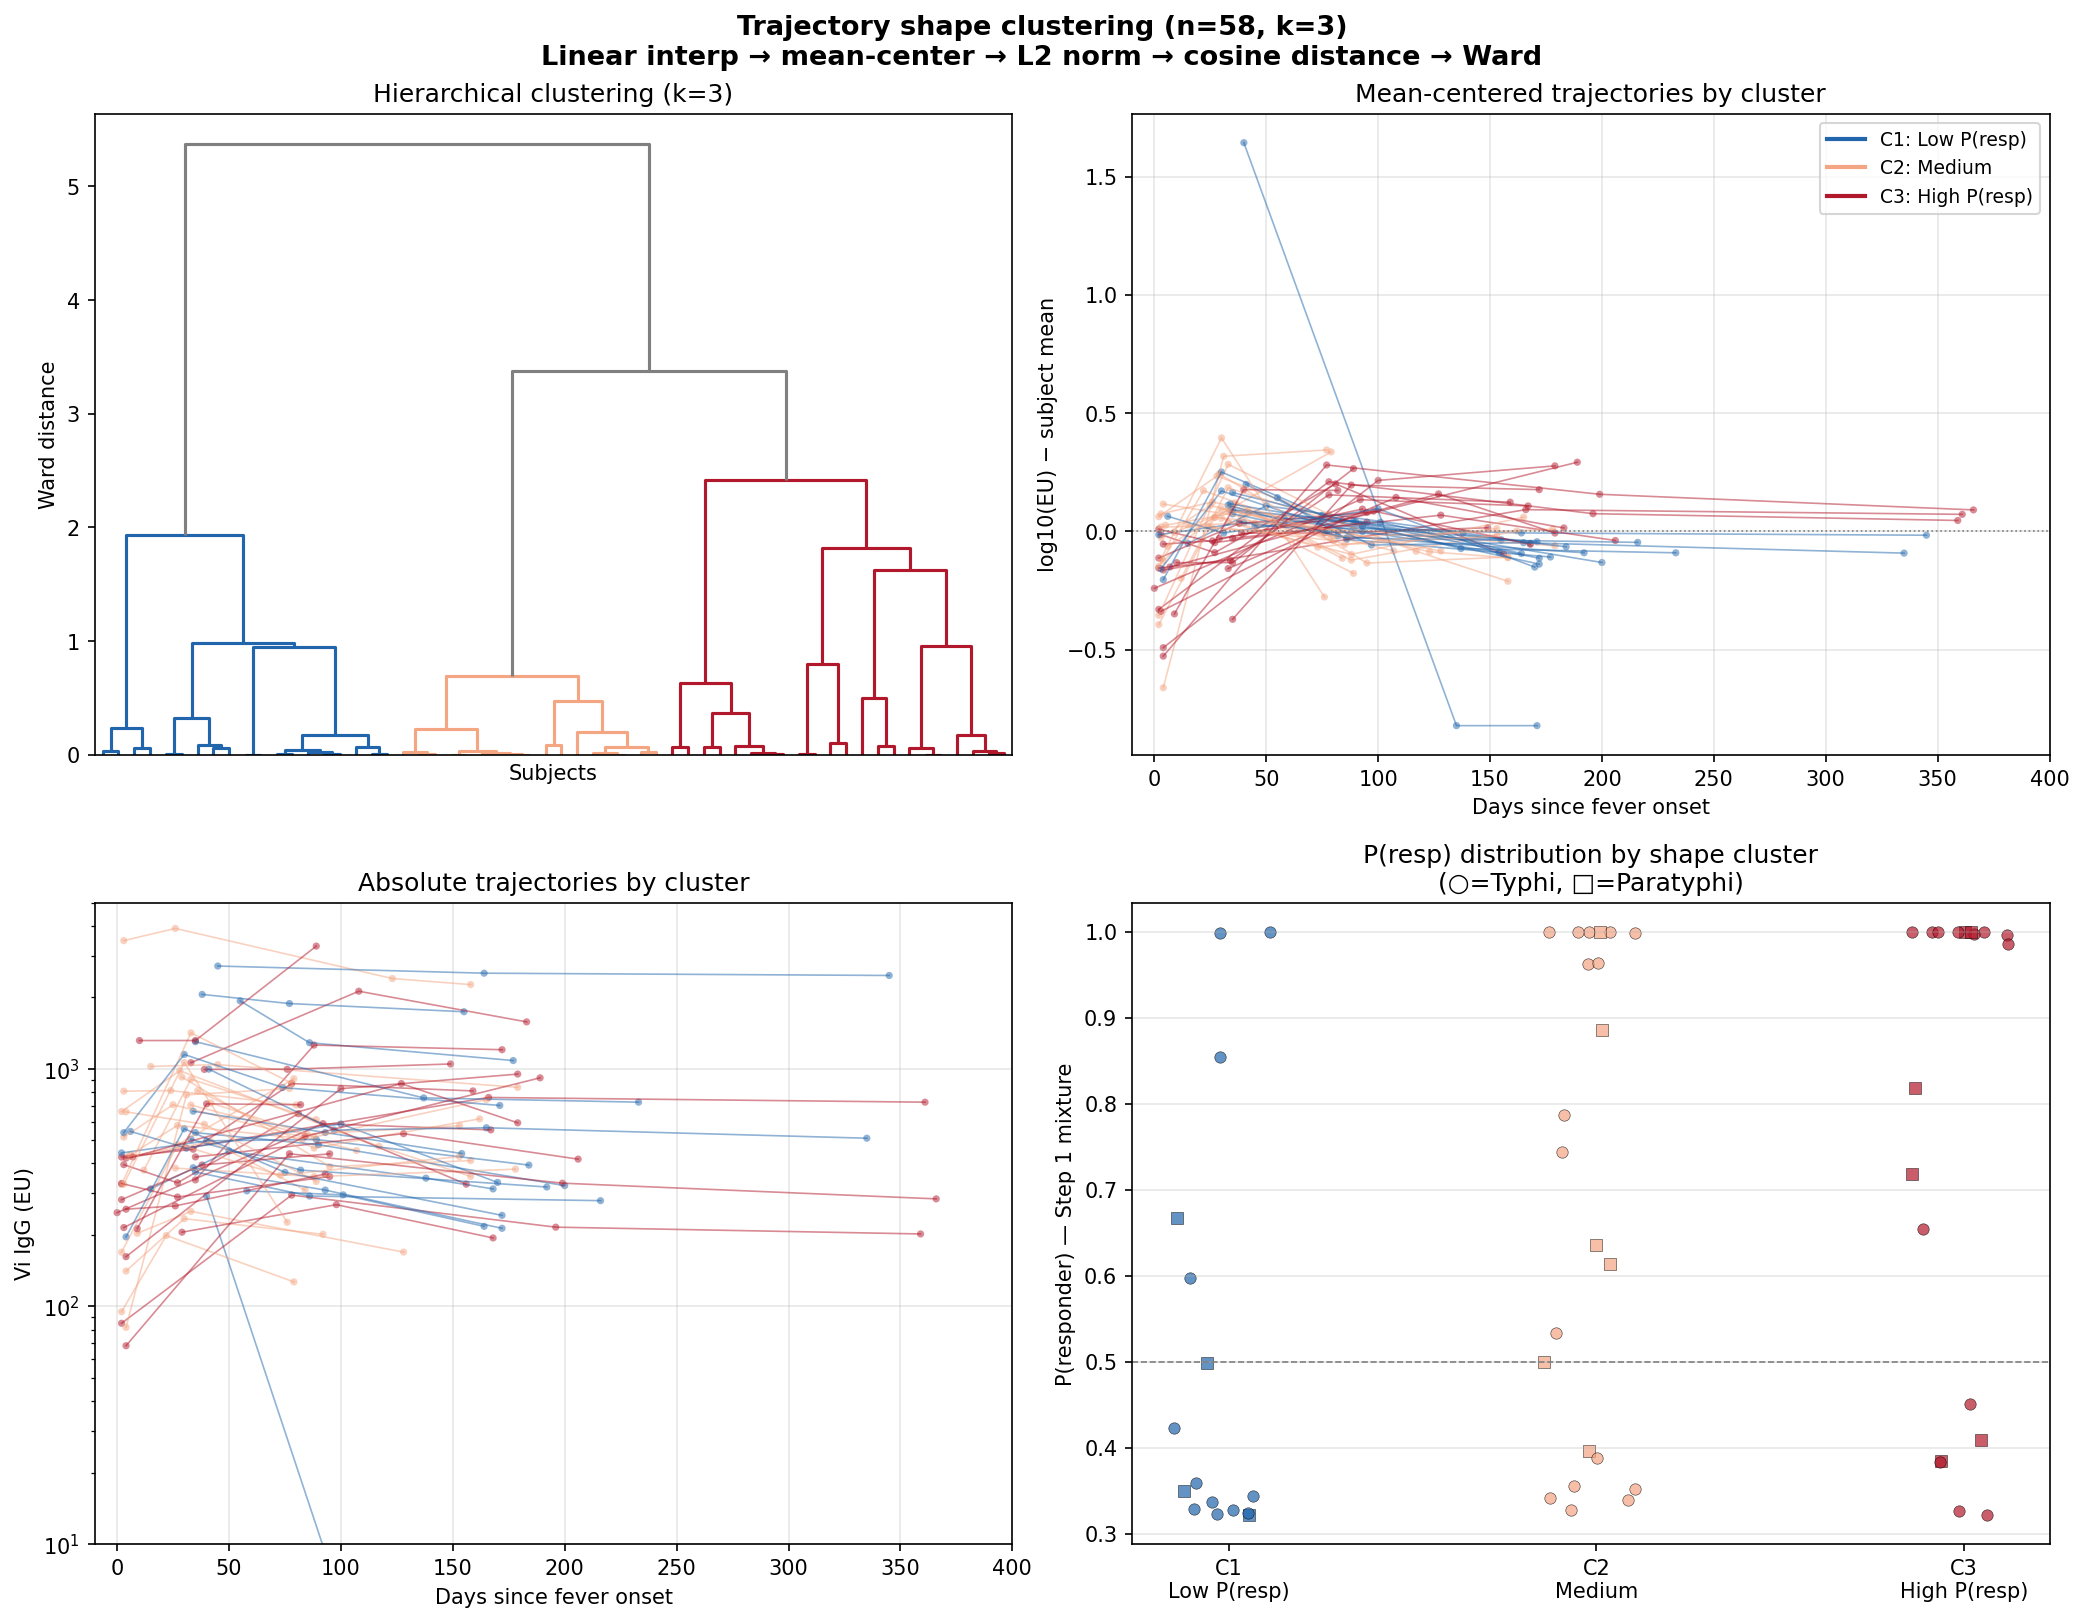
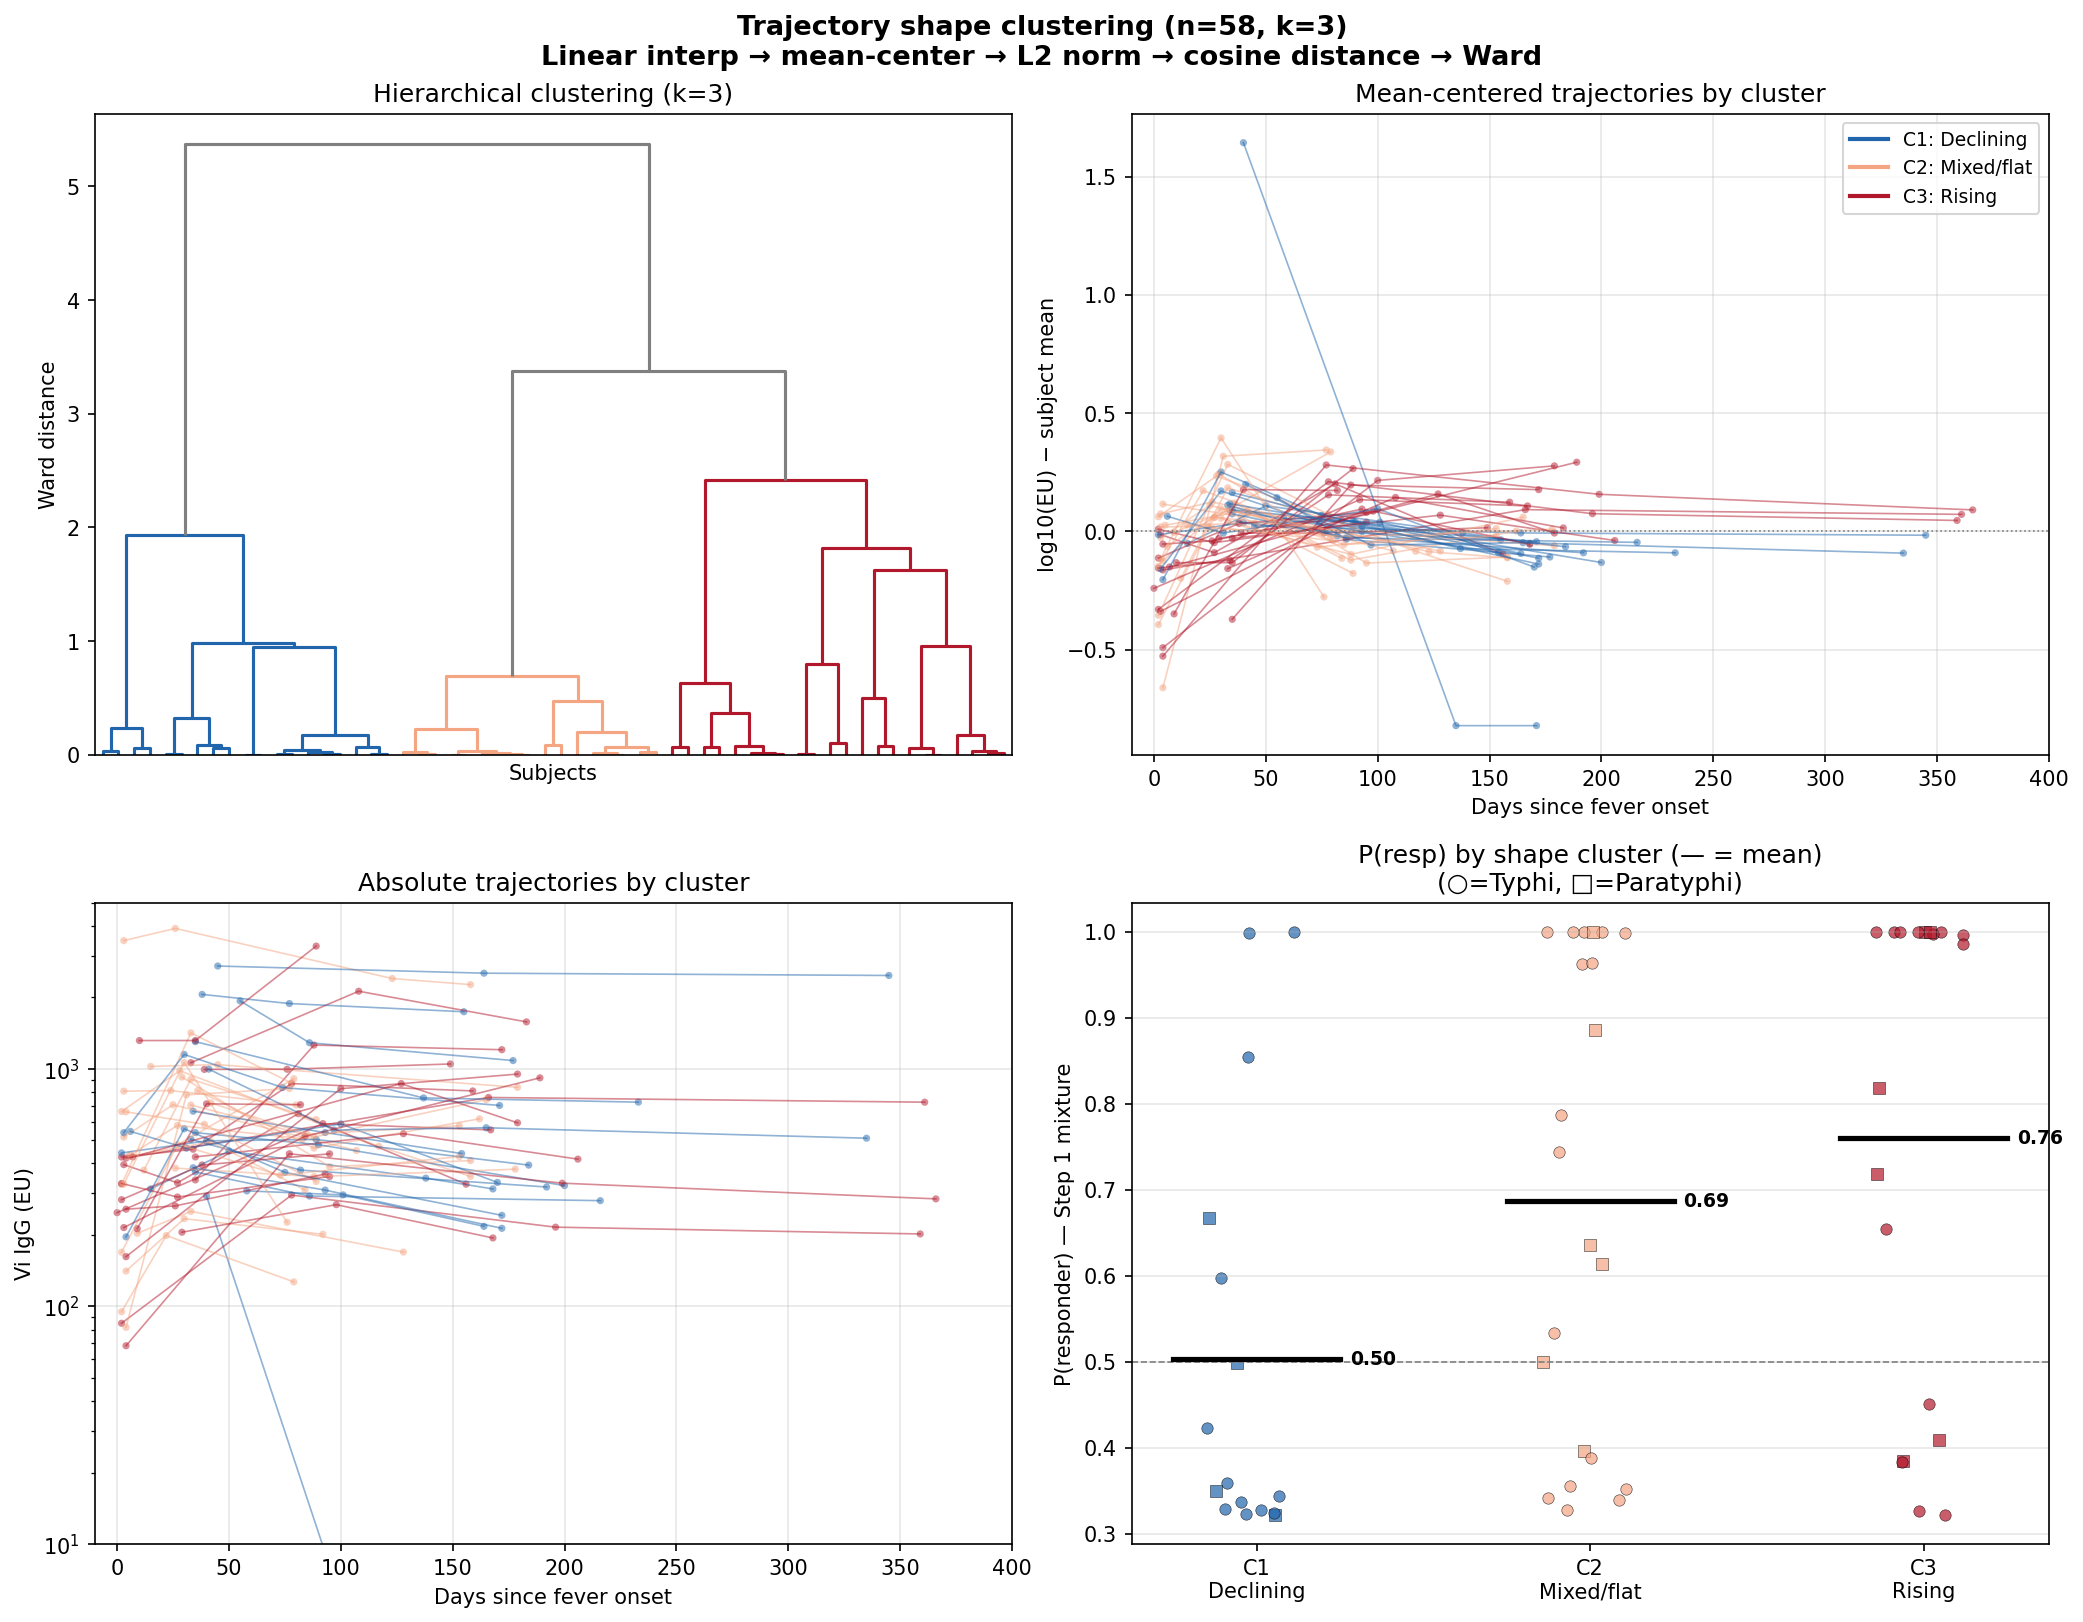
Improve cluster figures: P(resp) coloring, serovar split, mean labels
- Cluster trajectories: 4×3 (typhi/paratyphi × absolute/centered),
  colored by continuous P(resp), black LOESS, outlier filtered.
  Cluster names now shape-descriptive (Declining/Mixed/Rising).

- Shape clustering summary: bottom-right shows mean P(resp) per
  cluster with labeled bars (0.50, 0.69, 0.76).

diff --git a/metastudies/waning_after_infection/Aiemjoy2022_reanalysis/reanalysis/mixture_eda/11_trajectory_shape_clustering.py b/metastudies/waning_after_infection/Aiemjoy2022_reanalysis/reanalysis/mixture_eda/11_trajectory_shape_clustering.py
@@ -151,7 +151,7 @@ def main():
     cluster_map_ordered = dict(zip(sids, cluster_labels_ordered))
 
     cluster_colors = {1: "#2166ac", 2: "#f4a582", 3: "#b2182b"}
-    cluster_names = {1: "Low P(resp)", 2: "Medium", 3: "High P(resp)"}
+    cluster_names = {1: "Declining", 2: "Mixed/flat", 3: "Rising"}
 
     # Print cluster summary
     print(f"\nCluster summary (k={k_primary}, ordered by mean P(resp)):")
@@ -217,7 +217,7 @@ def main():
     ax.set_ylabel("Vi IgG (EU)")
     ax.set_title("Absolute trajectories by cluster")
 
-    # Panel D: P(resp) by cluster + serovar breakdown
+    # Panel D: P(resp) by cluster — individual points + mean
     ax = axes[1, 1]
     for c in range(1, k_primary + 1):
         c_sids = [s for s in sids if cluster_map_ordered[s] == c]
@@ -230,10 +230,16 @@ def main():
             marker = "o" if sv == "typhi" else "s"
             ax.scatter(c + j, p, color=cluster_colors[c], marker=marker,
                        s=30, alpha=0.7, edgecolors="black", linewidths=0.3)
+        # Mean P(resp) per cluster
+        mean_p = np.mean(presps)
+        ax.plot([c - 0.25, c + 0.25], [mean_p, mean_p], color="black",
+                linewidth=2.5, zorder=10)
+        ax.text(c + 0.28, mean_p, f"{mean_p:.2f}", fontsize=9, va="center",
+                fontweight="bold")
     ax.set_xticks(range(1, k_primary + 1))
     ax.set_xticklabels([f"C{c}\n{cluster_names[c]}" for c in range(1, k_primary + 1)])
     ax.set_ylabel("P(responder) — Step 1 mixture")
-    ax.set_title("P(resp) distribution by shape cluster\n(○=Typhi, □=Paratyphi)")
+    ax.set_title("P(resp) by shape cluster (— = mean)\n(○=Typhi, □=Paratyphi)")
     ax.axhline(0.5, color="gray", linestyle="--", linewidth=0.8)
     ax.grid(True, alpha=0.3, axis="y")
 
@@ -247,97 +253,114 @@ def main():
 
 
     # =====================================================================
-    # Figure 2: 2×3 faceted trajectories by cluster (like script 10 style)
-    # Top: absolute titers with LOESS. Bottom: mean-centered with LOESS.
+    # Figure 2: 4×3 faceted trajectories by cluster × serovar
+    # Rows: typhi absolute, typhi centered, paratyphi absolute, para centered
+    # Colored by P(resp). LOESS per panel. Filter outlier (indx387).
     # =====================================================================
     from statsmodels.nonparametric.smoothers_lowess import lowess as sm_lowess
+    import matplotlib.cm as cm
 
-    fig, axes = plt.subplots(2, k_primary, figsize=(6 * k_primary, 10),
+    # P(resp) colormap
+    presp_cmap = cm.RdYlBu_r
+    presp_norm = plt.Normalize(vmin=0.2, vmax=1.0)
+
+    # Filter obvious outlier (indx387: collapses to ~0 EU)
+    outlier_ids = {"indx387"}
+
+    row_defs = [
+        ("S. Typhi — absolute", "typhi", "absolute"),
+        ("S. Typhi — mean-centered", "typhi", "centered"),
+        ("S. Paratyphi A — absolute", "paratyphi", "absolute"),
+        ("S. Paratyphi A — mean-centered", "paratyphi", "centered"),
+    ]
+
+    fig, axes = plt.subplots(4, k_primary, figsize=(6 * k_primary, 18),
                              sharex=True)
 
+    # Precompute subject means
+    subj_means = {}
+    for sid in sids:
+        grp = longi[longi["index_id"] == sid]
+        subj_means[sid] = np.log10(np.maximum(grp["vi_igg_eu"].values, 1)).mean()
+
     for col, c in enumerate(range(1, k_primary + 1)):
-        c_sids = [s for s in sids if cluster_map_ordered[s] == c]
-        c_presps = [subject_info[s]["p_resp"] for s in c_sids
-                    if not np.isnan(subject_info[s]["p_resp"])]
-        mean_presp = np.mean(c_presps) if c_presps else np.nan
-        n_typhi = sum(1 for s in c_sids if subject_info[s]["serovar"] == "typhi")
-        n_para = len(c_sids) - n_typhi
+        c_sids = [s for s in sids if cluster_map_ordered[s] == c and s not in outlier_ids]
 
-        # Collect all points for LOESS
-        all_t, all_y, all_y_centered = [], [], []
-        subj_means = {}
+        for row_idx, (row_label, sv_filter, mode) in enumerate(row_defs):
+            ax = axes[row_idx, col]
+            sv_sids = [s for s in c_sids if subject_info[s]["serovar"] == sv_filter]
 
-        for sid in c_sids:
-            grp = longi[longi["index_id"] == sid].sort_values("days_since_fever_onset")
-            t = grp["days_since_fever_onset"].values
-            y = np.log10(np.maximum(grp["vi_igg_eu"].values, 1))
-            subj_means[sid] = y.mean()
-            all_t.extend(t)
-            all_y.extend(y)
-            all_y_centered.extend(y - y.mean())
+            # Collect for LOESS
+            all_t, all_y = [], []
 
-        all_t = np.array(all_t)
-        all_y = np.array(all_y)
-        all_y_centered = np.array(all_y_centered)
+            for sid in sv_sids:
+                grp = longi[longi["index_id"] == sid].sort_values("days_since_fever_onset")
+                t = grp["days_since_fever_onset"].values
+                y_log = np.log10(np.maximum(grp["vi_igg_eu"].values, 1))
+                p_r = subject_info[sid]["p_resp"]
+                color = presp_cmap(presp_norm(p_r))
 
-        # --- Row 0: absolute titers ---
-        ax = axes[0, col]
-        for sid in c_sids:
-            grp = longi[longi["index_id"] == sid].sort_values("days_since_fever_onset")
-            sv_color = "#9133be" if subject_info[sid]["serovar"] == "typhi" else "#2ca02c"
-            ax.plot(grp["days_since_fever_onset"], grp["vi_igg_eu"],
-                    color=sv_color, linewidth=0.8, alpha=0.5)
-            ax.scatter(grp["days_since_fever_onset"], grp["vi_igg_eu"],
-                       color=sv_color, s=15, alpha=0.5, edgecolors="black", linewidths=0.2)
+                if mode == "absolute":
+                    y_plot = grp["vi_igg_eu"].values
+                    y_for_loess = y_log
+                else:
+                    y_plot = y_log - subj_means[sid]
+                    y_for_loess = y_plot
 
-        # LOESS on absolute log10
-        if len(all_t) >= 6:
-            smooth = sm_lowess(all_y, all_t, frac=0.6, return_sorted=True)
-            ax.plot(smooth[:, 0], 10**smooth[:, 1], color=cluster_colors[c],
-                    linewidth=3, alpha=0.9, zorder=10)
+                all_t.extend(t)
+                all_y.extend(y_for_loess)
 
-        ax.set_yscale("log"); ax.set_ylim(10, 5000); ax.set_xlim(-10, 400)
-        ax.grid(True, alpha=0.3)
-        ax.set_title(f"C{c}: {cluster_names[c]}\n"
-                     f"n={len(c_sids)} ({n_typhi}T, {n_para}P), "
-                     f"mean P(resp)={mean_presp:.2f}",
-                     fontsize=10)
-        if col == 0:
-            ax.set_ylabel("Vi IgG (EU)")
+                if mode == "absolute":
+                    ax.plot(t, y_plot, color=color, linewidth=0.8, alpha=0.6)
+                    ax.scatter(t, y_plot, color=color, s=15, alpha=0.6,
+                               edgecolors="black", linewidths=0.2)
+                else:
+                    ax.plot(t, y_plot, color=color, linewidth=0.8, alpha=0.6)
+                    ax.scatter(t, y_plot, color=color, s=15, alpha=0.6,
+                               edgecolors="black", linewidths=0.2)
 
-        # --- Row 1: mean-centered ---
-        ax = axes[1, col]
-        for sid in c_sids:
-            grp = longi[longi["index_id"] == sid].sort_values("days_since_fever_onset")
-            y = np.log10(np.maximum(grp["vi_igg_eu"].values, 1))
-            y_c = y - subj_means[sid]
-            sv_color = "#9133be" if subject_info[sid]["serovar"] == "typhi" else "#2ca02c"
-            ax.plot(grp["days_since_fever_onset"].values, y_c,
-                    color=sv_color, linewidth=0.8, alpha=0.5)
-            ax.scatter(grp["days_since_fever_onset"].values, y_c,
-                       color=sv_color, s=15, alpha=0.5, edgecolors="black", linewidths=0.2)
+            # LOESS
+            all_t = np.array(all_t)
+            all_y = np.array(all_y)
+            if len(all_t) >= 6:
+                smooth = sm_lowess(all_y, all_t, frac=0.6, return_sorted=True)
+                if mode == "absolute":
+                    ax.plot(smooth[:, 0], 10**smooth[:, 1], color="black",
+                            linewidth=3, alpha=0.9, zorder=10)
+                else:
+                    ax.plot(smooth[:, 0], smooth[:, 1], color="black",
+                            linewidth=3, alpha=0.9, zorder=10)
 
-        # LOESS on mean-centered
-        if len(all_t) >= 6:
-            smooth = sm_lowess(all_y_centered, all_t, frac=0.6, return_sorted=True)
-            ax.plot(smooth[:, 0], smooth[:, 1], color=cluster_colors[c],
-                    linewidth=3, alpha=0.9, zorder=10)
+            ax.set_xlim(-10, 400); ax.grid(True, alpha=0.3)
+            if mode == "absolute":
+                ax.set_yscale("log"); ax.set_ylim(10, 5000)
+            else:
+                ax.axhline(0, color="gray", linestyle=":", linewidth=0.8)
 
-        ax.axhline(0, color="gray", linestyle=":", linewidth=0.8)
-        ax.set_xlim(-10, 400); ax.grid(True, alpha=0.3)
-        ax.set_xlabel("Days since fever onset")
-        if col == 0:
-            ax.set_ylabel("log10(EU) − subject mean")
+            if row_idx == 0:
+                n_sv = len(sv_sids)
+                ax.set_title(f"C{c}: {cluster_names[c]} (n={len(c_sids)})\n"
+                             f"{sv_filter}: n={n_sv}", fontsize=10)
+            elif row_idx == 2:
+                n_sv = len(sv_sids)
+                ax.set_title(f"{sv_filter}: n={n_sv}", fontsize=10)
 
-    legend_els = [
-        Line2D([0], [0], color="#9133be", lw=1.5, label="S. Typhi"),
-        Line2D([0], [0], color="#2ca02c", lw=1.5, label="S. Paratyphi A"),
-        Line2D([0], [0], color="gray", lw=3, label="LOESS (cluster)"),
-    ]
-    axes[0, -1].legend(handles=legend_els, fontsize=8, loc="upper right")
+            if col == 0:
+                if mode == "absolute":
+                    ax.set_ylabel(f"{row_label}\nVi IgG (EU)")
+                else:
+                    ax.set_ylabel(f"{row_label}\nlog10 − subj mean")
+            if row_idx == 3:
+                ax.set_xlabel("Days since fever onset")
 
-    fig.suptitle(f"Trajectory shape clusters (n={n}, k={k_primary})\n"
-                 f"Top: absolute titers | Bottom: mean-centered",
+    # Colorbar
+    sm_cb = cm.ScalarMappable(norm=presp_norm, cmap=presp_cmap)
+    sm_cb.set_array([])
+    cbar = fig.colorbar(sm_cb, ax=axes, location="right", shrink=0.5, pad=0.02)
+    cbar.set_label("P(responder)")
+
+    fig.suptitle(f"Trajectory shape clusters × serovar (n={n}, k={k_primary})\n"
+                 f"Colored by P(resp), black = LOESS",
                  fontsize=13, fontweight="bold")
     fig.tight_layout()
     fig.savefig(OUT_DIR / "11_cluster_trajectories.png", dpi=150, bbox_inches="tight")
